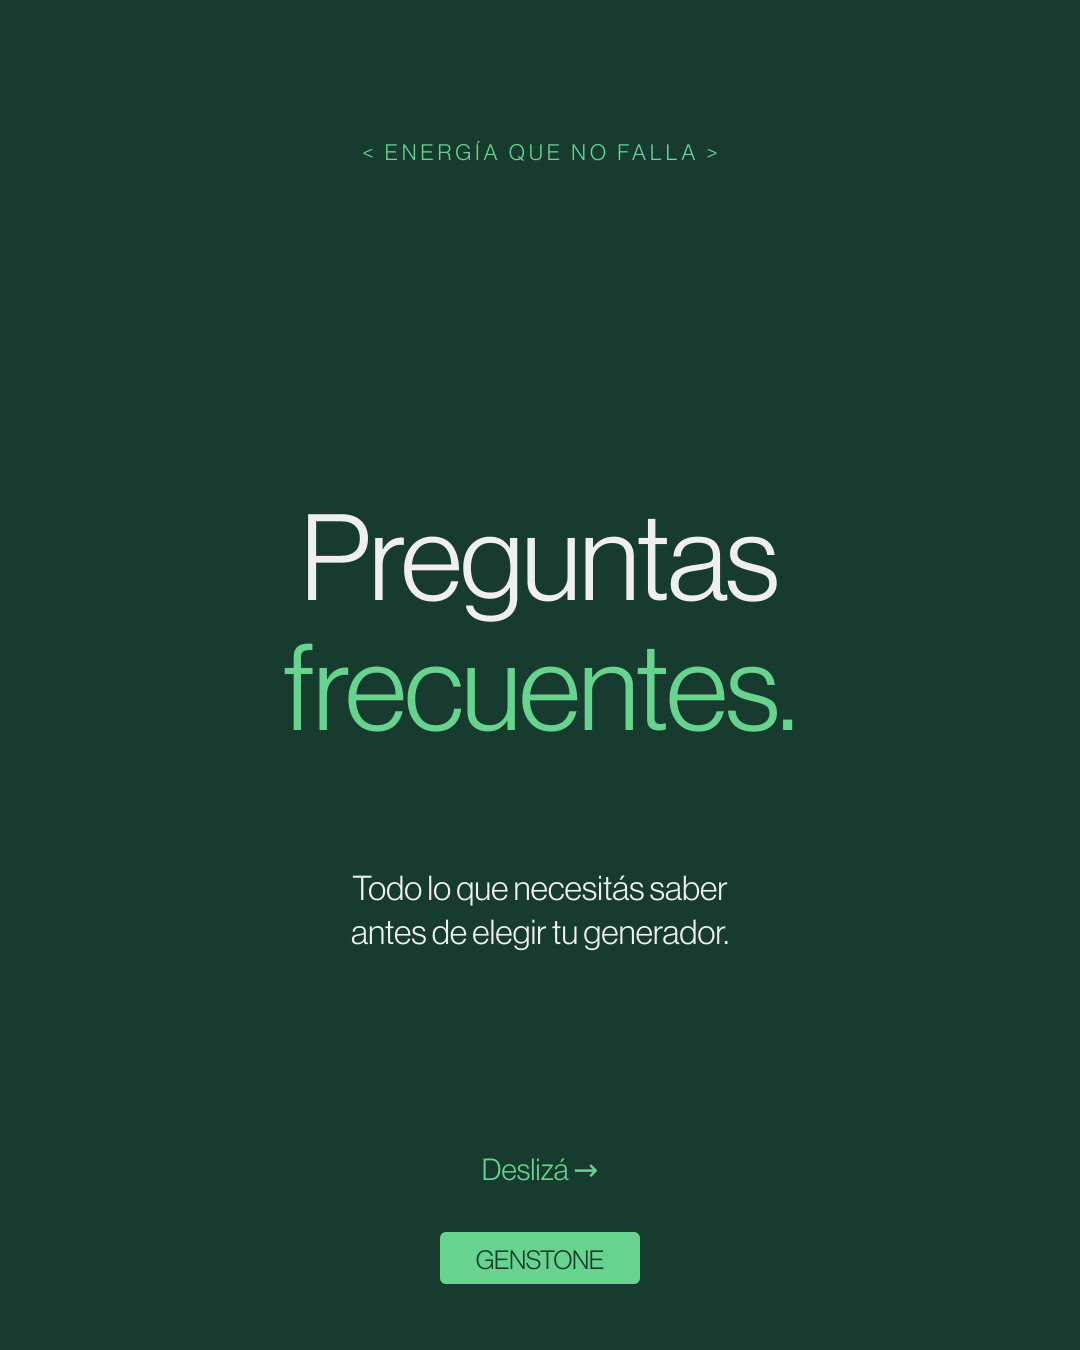
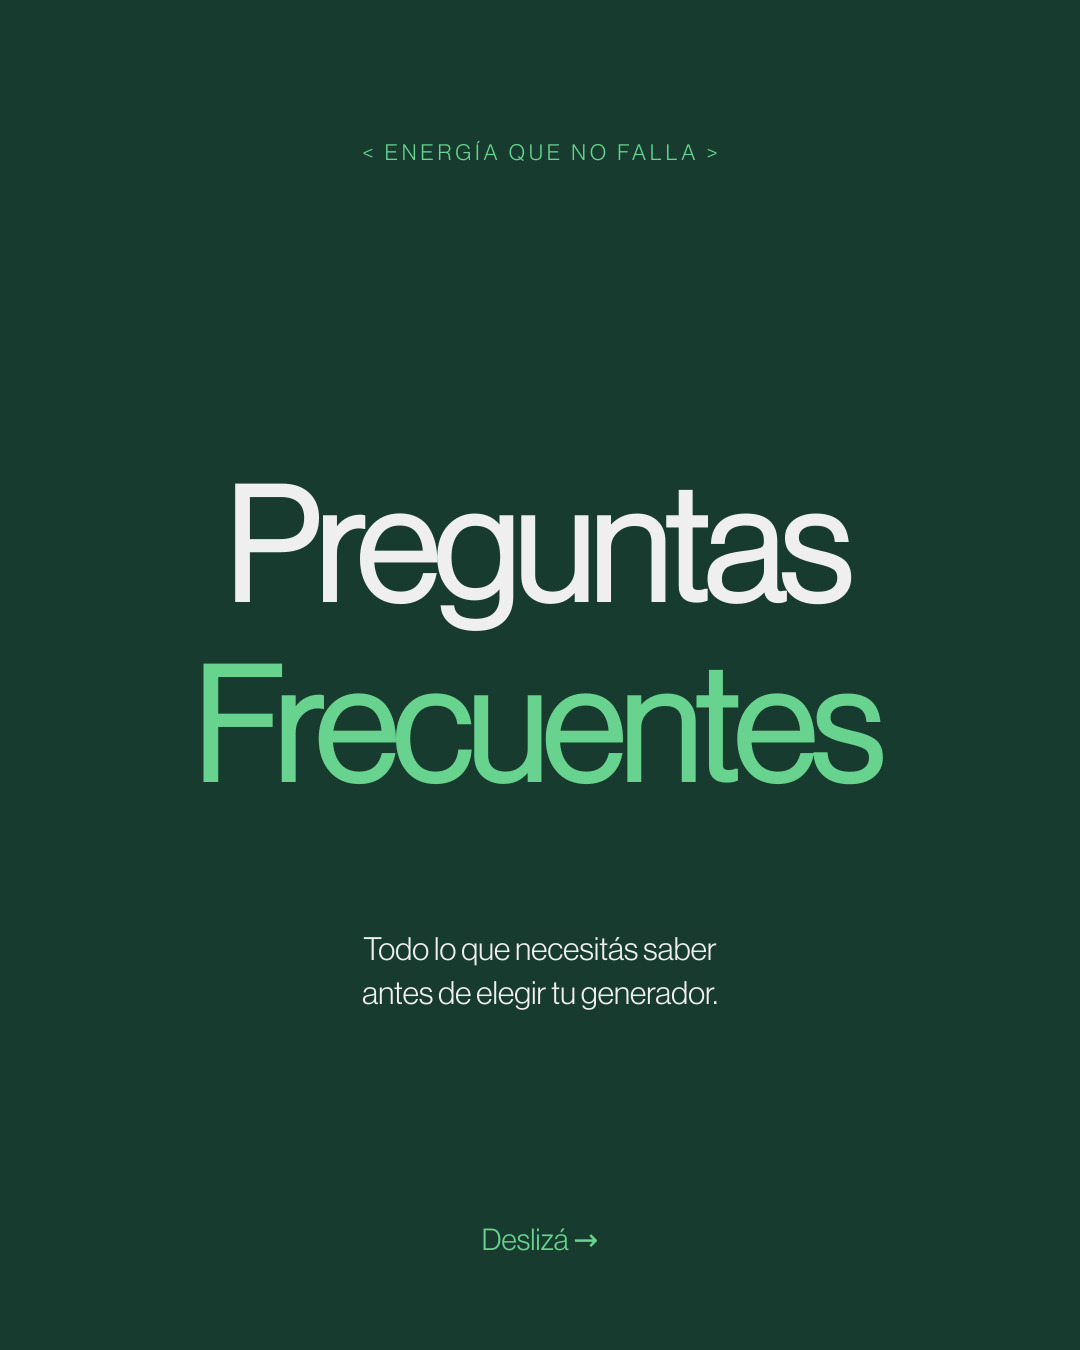
feat: outro del carrusel FAQ + cover con mas presencia tipografica
- Nueva slide faq_07_outro: '¿Tenes mas dudas?' + CTA a genstone.com.ar
- Cover y outro: tipo a 160pt con stroke para simular Bold (Neue Haas
  solo trae Light + Medium en el pack); 'Frecuentes' / 'mas dudas?'
  en verde energia como acento.
- Removido chip GENSTONE del cover (coherencia con FAQ slides).

diff --git a/generate.py b/generate.py
@@ -509,28 +509,58 @@ def faq_cover(filename):
         letter-spacing="0.18em">&lt; ENERGÍA QUE NO FALLA &gt;</text>
 
   <text x="{W/2}" y="600" font-family="{HAAS}" font-weight="500"
-        font-size="120" fill="{BLANCO}" text-anchor="middle"
-        letter-spacing="-0.015em">Preguntas</text>
-  <text x="{W/2}" y="730" font-family="{HAAS}" font-weight="500"
-        font-size="120" fill="{VERDE_ENERGIA}" text-anchor="middle"
-        letter-spacing="-0.015em">frecuentes.</text>
+        font-size="160" fill="{BLANCO}" stroke="{BLANCO}" stroke-width="4"
+        text-anchor="middle"
+        letter-spacing="-0.025em">Preguntas</text>
+  <text x="{W/2}" y="780" font-family="{HAAS}" font-weight="500"
+        font-size="160" fill="{VERDE_ENERGIA}" stroke="{VERDE_ENERGIA}" stroke-width="4"
+        text-anchor="middle"
+        letter-spacing="-0.025em">Frecuentes</text>
 
-  <text x="{W/2}" y="900" font-family="{HAAS}" font-weight="300"
-        font-size="34" fill="{BLANCO}" text-anchor="middle"
+  <text x="{W/2}" y="960" font-family="{HAAS}" font-weight="300"
+        font-size="32" fill="{BLANCO}" text-anchor="middle"
         letter-spacing="0">Todo lo que necesitás saber</text>
-  <text x="{W/2}" y="944" font-family="{HAAS}" font-weight="300"
-        font-size="34" fill="{BLANCO}" text-anchor="middle"
+  <text x="{W/2}" y="1004" font-family="{HAAS}" font-weight="300"
+        font-size="32" fill="{BLANCO}" text-anchor="middle"
         letter-spacing="0">antes de elegir tu generador.</text>
 
-  <text x="{W/2}" y="1180" font-family="{HAAS}" font-weight="500"
+  <text x="{W/2}" y="1250" font-family="{HAAS}" font-weight="500"
         font-size="30" fill="{VERDE_ENERGIA}" text-anchor="middle"
         letter-spacing="0">Deslizá →</text>
+</svg>'''
+    write(filename, svg)
 
-  <g transform="translate({W/2-100},{H-90})">
-    <rect x="0" y="-28" width="200" height="52" rx="6" fill="{VERDE_ENERGIA}"/>
-    <text x="100" y="9" font-family="{HAAS}" font-weight="500" font-size="26"
-          fill="{VERDE_GENSTONE}" text-anchor="middle" letter-spacing="-0.02em">GENSTONE</text>
-  </g>
+
+# ─────────────────────────────────────────────────────────────────────
+# Cierre del carrusel FAQ — mismo lenguaje que la cover
+# ─────────────────────────────────────────────────────────────────────
+def faq_outro(filename):
+    svg = f'''<?xml version="1.0" encoding="UTF-8"?>
+<svg xmlns="http://www.w3.org/2000/svg" width="{W}" height="{H}" viewBox="0 0 {W} {H}">
+  <rect width="{W}" height="{H}" fill="{VERDE_GENSTONE}"/>
+  <text x="{W/2}" y="160" font-family="{HAAS}" font-weight="500"
+        font-size="22" fill="{VERDE_ENERGIA}" text-anchor="middle"
+        letter-spacing="0.18em">&lt; ENERGÍA QUE NO FALLA &gt;</text>
+
+  <text x="{W/2}" y="600" font-family="{HAAS}" font-weight="500"
+        font-size="160" fill="{BLANCO}" stroke="{BLANCO}" stroke-width="4"
+        text-anchor="middle"
+        letter-spacing="-0.025em">¿Tenés</text>
+  <text x="{W/2}" y="780" font-family="{HAAS}" font-weight="500"
+        font-size="160" fill="{VERDE_ENERGIA}" stroke="{VERDE_ENERGIA}" stroke-width="4"
+        text-anchor="middle"
+        letter-spacing="-0.025em">más dudas?</text>
+
+  <text x="{W/2}" y="960" font-family="{HAAS}" font-weight="300"
+        font-size="32" fill="{BLANCO}" text-anchor="middle"
+        letter-spacing="0">Asesorate en nuestra web o escribinos.</text>
+  <text x="{W/2}" y="1004" font-family="{HAAS}" font-weight="300"
+        font-size="32" fill="{BLANCO}" text-anchor="middle"
+        letter-spacing="0">Te ayudamos a elegir el generador ideal.</text>
+
+  <text x="{W/2}" y="1250" font-family="{HAAS}" font-weight="500"
+        font-size="36" fill="{VERDE_ENERGIA}" text-anchor="middle"
+        letter-spacing="0">genstone.com.ar →</text>
 </svg>'''
     write(filename, svg)
 
@@ -645,6 +675,8 @@ def build_all():
          "El monitoreo 24/7 te avisa cuando toca cada",
          "servicio. Nuestra red técnica se encarga del",
          "resto, en todo el país."])
+
+    faq_outro("faq_07_outro")
 
     # ─── Cards estilo web (genstone.com.ar/productos) ───
     web_card("web_01_gs12", "genstone-02.jpg", "GS12",
